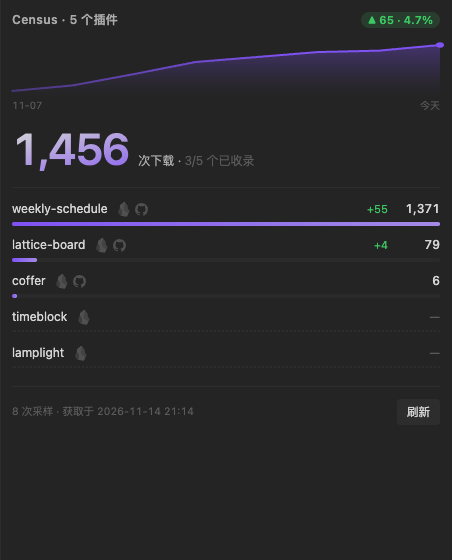
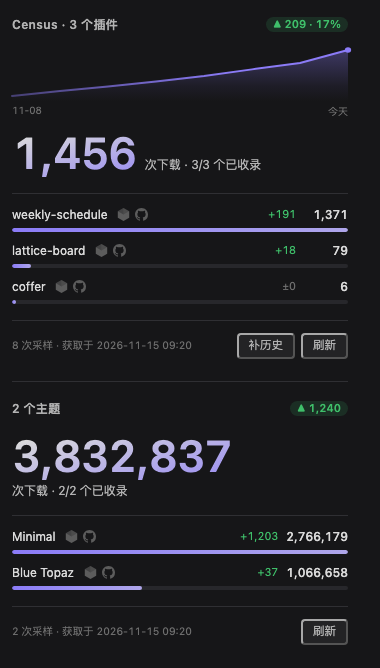
docs: the theme source, and why it gets no curve

diff --git a/README.md b/README.md
@@ -1,34 +1,41 @@
 # Census
 
-![The panel: a 30-day curve, the total, and one row per plugin](preview/panel.png)
+![The panel: a 30-day curve, the total, and one row per target](preview/panel.png)
 
-A curve, a total, and a row per plugin. Download counts from Obsidian's own stats, in the status bar and in a right-sidebar tab.
+A curve for the plugins you track, a total for everything you track, and one row per target — in the status bar and in a right-sidebar tab.
 
 ## 它是什么
 
-**盯住一组插件，告诉你它们一共被下载了多少次、最近在怎么涨。**
+**盯住一组插件和主题，告诉你它们各自被下载了多少次、最近在怎么涨。**
 
-- **右侧边栏面板**：最上面是一条曲线（近 30 天），中间是合计的大字，下面每个插件一行 —— 名字、两个图标、30 天增量、当前数字、占比条
-- **每行两个图标**：Obsidian 的水晶打开插件页面，猫头打开 GitHub 仓库。还没上架社区目录的插件没有仓库，就只画水晶，不画一个点不动的猫头
-- **状态栏**：只有一个插件时显示 `weekly-schedule · 1.4k`，多个时显示合计 `Census · 1.5k`
-- **设置里增删**：输入插件 ID 回车即加，每行右侧一个 × 移除
+- **右侧边栏面板**：插件块最上面是一条曲线（近 30 天），中间是合计的大字，下面每个插件一行 —— 名字、两个图标、30 天增量、当前数字、占比条
+- **主题块只有数字，没有曲线**：官方对主题只给当前值，没有日级序列，画一条线就是替它编一个形状。所以主题块是合计 + 每行数量 + 占比条
+- **两类分成两块**：各自的合计、各自的列表。只有两类都跟踪时才会出现第二块
+- **每行两个图标**：Obsidian 的水晶打开商店页面（插件页或主题页），猫头打开 GitHub 仓库。还没上架社区目录的目标没有仓库，就只画水晶
+- **状态栏**：只有一个目标时显示 `weekly-schedule · 1.4k`，多个时显示两类合计 `Census · 2.8M`
+- **设置里分两组增删**：插件填 ID、主题填名字，回车即加，每行右侧一个 × 移除
 - **三个命令**：`查看下载量`、`刷新下载量`、`在侧边栏打开读数`
 
 ## 数据从哪来
 
 | 文件 | 用途 | 体积 | 多久读一次 |
 |---|---|---|---|
-| `community-plugin-stats.json` | 每个插件的累计下载量 | 2.9 MB | 默认 12 小时 |
+| `community-plugin-stats.json` | 每个插件的累计下载量（`downloads` + `updated`） | 3.0 MB | 默认 12 小时 |
 | `community-plugins.json` | 插件 ID → 仓库地址（为了 GitHub 图标） | 3.2 MB | 一周，或者新加了一个没查过的 ID |
+| `releases.obsidian.md/stats/theme` | 每个主题的累计下载量（`download`，**没有时间戳**） | 80 KB | 默认 12 小时 |
+| `community-css-themes.json` | 主题名 → 仓库地址、作者 | 181 KB | 一周，或者新加了一个没查过的名字 |
 
-两个文件都在 `obsidianmd/obsidian-releases` 里，都是全量文件：**加十个插件和加一个插件是同一次请求**。统计文件只存跟踪的那几个数字，索引文件只存跟踪的那几个仓库，所以 `data.json` 一直是几行。
+插件那两个文件在 `obsidianmd/obsidian-releases` 里，都是全量文件：**加十个和加一个是同一次请求**。统计文件只存跟踪的那几个数字，索引文件只存跟踪的那几个仓库，所以 `data.json` 一直是几行。
+
+主题**没有**对应的统计文件 —— `community-css-themes-stats.json` 在 releases 仓库的历史里从来没存在过，数字只在一个实时接口后面（`?date=` 之类的参数会被忽略）。它反而便宜得多：80 KB 对 3 MB。索引里目前 1030 个主题，统计接口有 1613 个键，多出来的是下架后仍然留着数字的。
 
 ## 曲线从哪来
 
-官方文件只有「今天」，没有历史 —— 它是一份快照，不是日志。所以历史是自己的：
+官方只给「现在」，不给历史 —— 插件那份是快照，主题那个接口更是只回答当下。所以插件的历史是自己的：
 
-- **自动采样**：每次检查落在新的一天时记一个点。按 UTC 日分割，因为文件正是 UTC 00:1x 被机器人重写的。
-- **回填**：那个文件本身每天被提交一次，所以它自己的 git 历史就是一份日级日志。「回填最近 30 天」按天读过去 30 个提交，一天一个请求，只做一次。
+- **自动采样**：每次检查落在新的一天时记一个点。按 UTC 日分割，因为插件文件正是 UTC 00:1x 被机器人重写的。两类都跟踪时，同一天只记一个点，插件的数字和主题的数字并排写进去。
+- **回填（仅插件）**：插件那个文件本身每天被提交一次，所以它自己的 git 历史就是一份日级日志。「回填最近 30 天」按天读过去 30 个提交，一天一个请求，只做一次。
+- **主题不画曲线**：背后没有每天提交的文件，也没有日级序列。自己采样两天连成一条线，画出来的形状是插件那边的习惯，不是主题数据的样子 —— 所以主题块只给数字、占比条和近 30 天增量，横轴与曲线都不出现。
 - **曲线按数据范围缩放，不从 0 开始**。30 天涨 4% 的插件对着零基线是一条直线，看不出任何东西；幅度交给右上角的百分比，斜率只回答「在涨还是在跌」。
 - **采样不足两天就画虚线框**，写「还没有曲线」。一条平的假线比空框更会骗人。
 
@@ -36,22 +43,26 @@ A curve, a total, and a row per plugin. Download counts from Obsidian's own stat
 
 | 决定 | 为什么 |
 |---|---|
-| **一次请求覆盖全部** | 官方文件本来就是全量的，多跟踪一个插件不多花一个字节 |
+| **一次请求覆盖全部** | 官方文件本来就是全量的，多跟踪一个不多花一个字节 |
+| **插件和主题不混在一个列表/一条曲线里** | 两条管道的历史能力不一样：回填过的 29 天只有插件数字，主题接上的那天曲线会凭空跳起一两百万 —— 那是采样缺口，不是增长 |
+| **主题不画曲线** | 官方没有主题的日级序列，画出来的斜率只反映我们自己什么时候开始采样，不反映主题本身。数字、占比条、近 30 天增量已经够回答「它现在多大、还在不在动」 |
+| **主题名不做小写化** | 主题没有 ID，名字就是键，而且区分大小写：`Minimal` 有 276 万下载，`minimal` 是另一个只有 4 次的老条目。小写化会安静地读错主题 |
 | **未收录显示 `—` 而不是 0** | 没上架和没人装是两件事，混在一起会骗人 |
-| **未收录不会反复重拉** | 快照记下「问过哪些 ID」，否则每半小时都会为确认一件不会变的事重下 2.9 MB |
-| **刷新中的新增会排队** | 否则在请求飞行期间加的插件会被那次结果漏掉，而且再也不会补上 |
+| **未收录不会反复重拉** | 快照记下「问过哪些 ID」，否则每半小时都会为确认一件不会变的事重下几 MB |
+| **刷新中的新增会排队** | 否则在请求飞行期间加的目标会被那次结果漏掉，而且再也不会补上 |
 | **一天一个点** | 官方一天只更新一次；一天两个点会让「8 次采样」这句本身变成假话 |
 | **回填要点一下才做** | 30 个几 MB 的请求不该背着用户发出去 |
 | **缺仓库时不画灰猫** | 一个点了没反应的图标，比这里空一格更糟 |
 | **两个图标都自己画** | 图标集里没有 Obsidian 品牌图标（`gem` 只是个菱形），而内置 GitHub 是描边的——一行里一个实心一个线框不像一对。两个都改用实心剪影、都吃 `currentColor`；水晶压暗两个背面做出棱线，否则 15px 下只是一块圆石头 |
-| **榜单按下载量排** | 未上架的行沉到最后，否则半屏的 `—` 看起来像坏了（设置里仍是你添加的顺序） |
-| **多个插件时状态栏显示合计** | 单个插件的数字放不进状态栏，明细由 tooltip 和面板负责 |
+| **主题页地址是算出来的** | 官网主题页的路径是「小写、只留字母数字、词间一个连字符」，对着全部 1030 个名字验过：`Rosé Pine → ros-pine`、`OLED.Black → oledblack`、`Dracula + LYT → dracula-lyt` |
+| **榜单按下载量排** | 未收录的行沉到最后，否则半屏的 `—` 看起来像坏了（设置里仍是你添加的顺序） |
+| **多个目标时状态栏显示合计** | 单个目标的数字放不进状态栏，明细由 tooltip 和面板负责 |
 
 ## 这个数字意味着什么
 
-`downloads` 统计的是**安装 + 每次更新**的累计次数，不是用户数。一个发版频繁的插件，同一个用户会反复计数。跨插件比较时要记得这一点：周更的插件天然比年更的高。
+`downloads` 统计的是**安装 + 每次更新**的累计次数，不是用户数。一个发版频繁的插件，同一个用户会反复计数。跨目标比较时要记得这一点：周更的插件天然比年更的高。主题也一样，只是主题的更新通常少一些。
 
-另外 `updated` 是官方重算该条目的时间，可能比文件本身晚一天左右，而且每个插件各不相同 —— 所以面板只在只有一个插件时，把它放进页脚那行的 tooltip 里。
+另外插件的 `updated` 是官方重算该条目的时间，可能比文件本身晚一天左右，而且每个插件各不相同 —— 所以面板只在只有一个插件时，把它放进页脚那行的 tooltip 里。主题的接口没有这个字段，主题块的页脚也就不提供它。
 
 ## 开发
 
@@ -63,15 +74,16 @@ npm run build    # tsc 类型检查 + 生产构建
 npm run deploy -- ./dev-vault
 ```
 
-`src/stats.ts` 负责读官方统计文件，`src/history.ts` 负责采样、窗口、涨跌与曲线坐标，`src/registry.ts` 负责从目录索引里取仓库地址。三个都**不 import `obsidian`**，所以解析与算术全部能在 Node 里跑测试。`src/main.ts` 只负责生命周期、状态栏和网络，`src/view.ts` 是那块面板。
+`src/stats.ts` 负责读两类统计文件（同一个解析器读 `downloads` 和 `download` 两种拼法），`src/history.ts` 负责采样、窗口、涨跌、曲线坐标与旧 key 迁移，`src/registry.ts` 负责从两个目录索引里取仓库地址、算主题页地址。三个都**不 import `obsidian`**，所以解析与算术全部能在 Node 里跑测试。`src/main.ts` 只负责生命周期、状态栏、两个数据源各自的取数与合并，`src/view.ts` 是那块面板。
 
 ## 隐私
 
-只对 GitHub 的公开文件发匿名 GET：
+只对公开文件发匿名 GET：
 
-- 每 12 小时一次统计文件（2.9 MB）
-- 每周一次目录索引（3.2 MB），只在需要 GitHub 链接时
-- 点「回填」时，一次性约 30 个请求
+- 每 12 小时一次插件统计文件（3.0 MB）
+- 每 12 小时一次主题统计接口（80 KB），只在跟踪了主题时
+- 每周一次目录索引（3.2 MB / 181 KB），只在需要链接时
+- 点「回填」时，一次性约 30 个请求（只有插件）
 
 不发送任何关于仓库、笔记或你的信息，无遥测。
 
